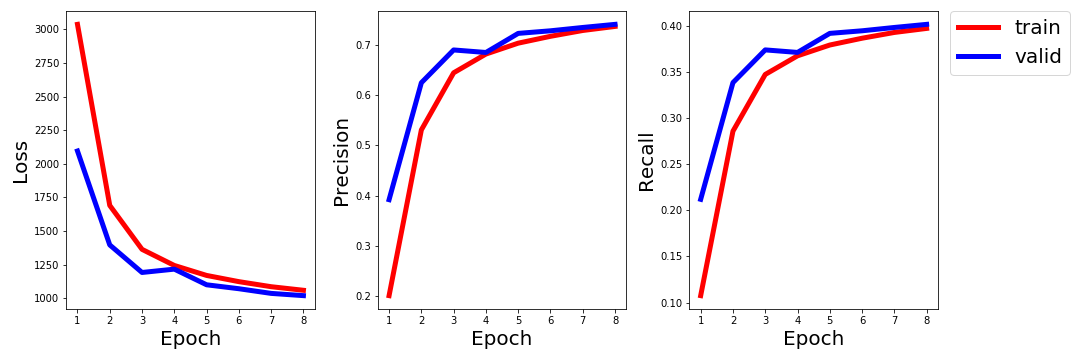
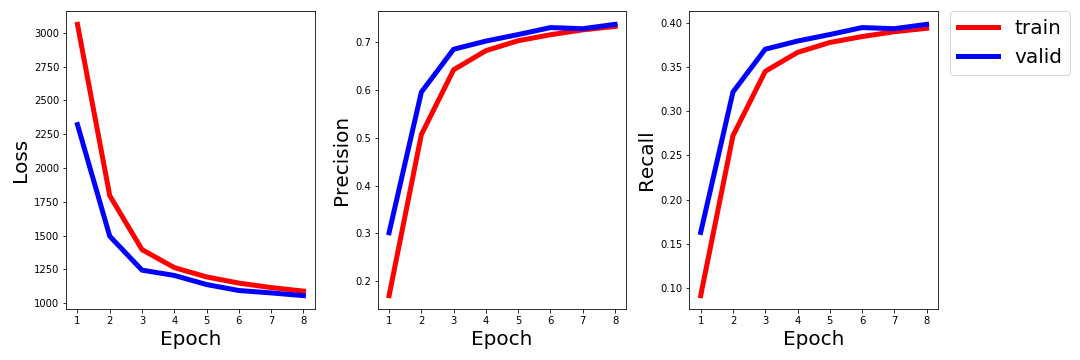
ns

diff --git a/models.py b/models.py
@@ -238,14 +238,14 @@ class EmbeddedClassifier(nn.Module):
         outputs:
         '''
         batch_size = x.size(0)
-        alpha = self.tanh(self.w_1(self.dropout(x)))  # x: [batch_size, frame_length, d_att]
-        alpha = self.w_2(alpha)                       # alpha: [batch_size, frame_length, d_hop]
+        alpha = self.w_1(self.dropout(F.relu(x)))     # x: [batch_size, frame_length, d_att]
+        alpha = self.w_2(self.dropout(F.relu(alpha))) # alpha: [batch_size, frame_length, d_hop]
         alpha = alpha.transpose(1, 2).contiguous()    # alpha: [batch_size, d_hop, frame_length]
         alpha = F.softmax(alpha, dim=-1)              # alpha: [batch_size, d_hop, frame_length]
         weighted_sum = torch.matmul(alpha, x)         # weighted_sum: [batch_size, d_hop, d_model]
         output = weighted_sum.view(batch_size, -1)    # output: [batch_size, d_hop * d_model]
-        output = self.tanh(self.w_3(self.dropout(output)))  # output: [batch_size, d_ff]
-        output = self.w_4(self.dropout(output))      # output: [batch_size, num_classes]
+        output = self.w_3(self.dropout(F.relu(output)))  # output: [batch_size, d_ff]
+        output = self.w_4(self.dropout(F.relu(output)))  # output: [batch_size, num_classes]
         return output, alpha
 
 
